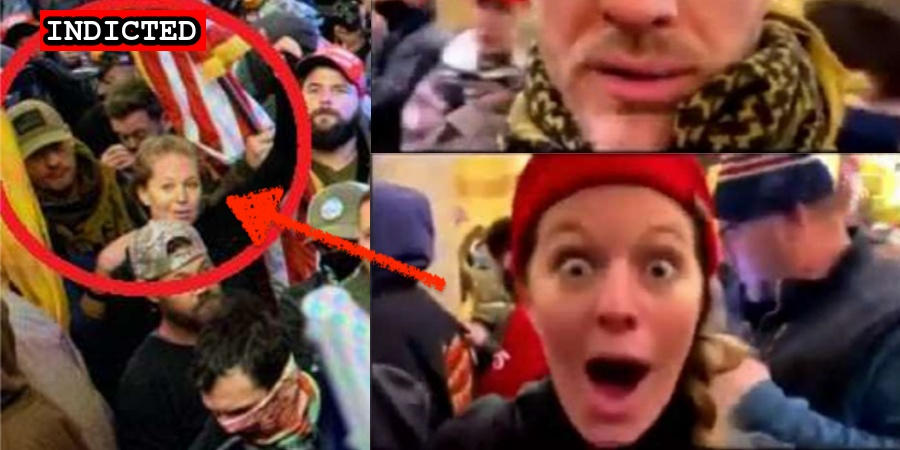
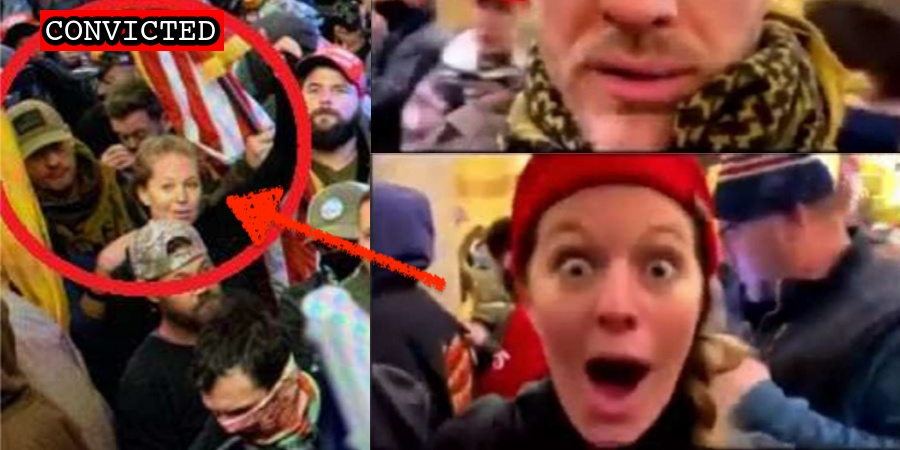
Latest import

Changed region(s): [[0.0311, 0.0, 0.2489, 0.1244]]

diff --git a/commands/suspect-import.ts b/commands/suspect-import.ts
@@ -288,6 +288,7 @@ const falsePositives = (site: string) => {
       set.add("Stackhouse");
       set.add("Ehrke");
       set.add("Moors");
+      set.add("Morgan-Lloyd");
       break;
   }
 

diff --git a/docs/_suspects/elizabeth-williams.md b/docs/_suspects/elizabeth-williams.md
@@ -4,15 +4,15 @@ lastName: Williams
 hashtag: ElizabethWilliams
 aka:
 residence: Texas
-status: Indicted
+status: Convicted
 date: 2021-03-23
 charged: 2021-03-23
 indicted: 2021-04-21
-convicted: 
-sentenced: 
-dismissed: 
+convicted: 2022-02-03
+sentenced:
+dismissed:
 deceased:
-plea_hearing:
+plea_hearing: 2022-02-03
 sentencing:
 age: 31
 occupation: Lifestyle Coach
@@ -34,9 +34,15 @@ published: true
 caseNumber: 1:21-cr-312
 videos:
 charges:
+  - code: 18 USC § 5104(e)(2)(G)
+    title: Parading, demonstrating or picketing in a Capitol building
+    url: https://www.law.cornell.edu/uscode/text/40/5104
+    felony: false
 sentence:
 ---
+
 - [News Report](https://www.houstonpublicmedia.org/articles/news/criminal-justice/2021/03/30/394724/texas-lifestyle-coach-and-her-boyfriend-arrested-for-joining-capitol-insurrection-fbi-says/)
 - [Complaint](https://www.justice.gov/usao-dc/case-multi-defendant/file/1386551/download)
-- [Statement of Facts](https://www.justice.gov/usao-dc/case-multi-defendant/file/1386556/download)
+- [Statement of Facts](https://www.justice.gov/usao-dc/case-multi-defendant/file/1468851/download)
 - [Indictment](https://www.justice.gov/usao-dc/case-multi-defendant/file/1389451/download)
+- [Plea Agreement](https://www.justice.gov/usao-dc/case-multi-defendant/file/1468846/download)

diff --git a/docs/_suspects/daniel-herendeen.md b/docs/_suspects/daniel-herendeen.md
@@ -34,15 +34,14 @@ published: true
 caseNumber: 1:21-cr-278
 videos:
 charges:
-  - code: 18 USC § 1752(a)(1)
-    title: Entering a restricted building or grounds
-    url: https://www.law.cornell.edu/uscode/text/18/1752
-    felony: false
+- code: 18 USC § 1752(a)(1)
+  title: Entering a restricted building or grounds
+  url: https://www.law.cornell.edu/uscode/text/18/1752
+  felony: false
 sentence:
 ---
-
 - [News Report](https://www.detroitnews.com/story/news/local/detroit-city/2021/03/18/us-capitol-riot-leads-charges-against-two-more-michigan-men/4746118001/)
 - [Complaint](https://www.justice.gov/usao-dc/case-multi-defendant/file/1378831/download)
-- [Statement of Facts](https://www.justice.gov/usao-dc/case-multi-defendant/file/1378836/download)
+- [Statement of Facts](https://www.justice.gov/usao-dc/case-multi-defendant/file/1468931/download)
 - [Indictment](https://www.justice.gov/usao-dc/case-multi-defendant/file/1384351/download)
-- [Plea Agreement](https://storage.courtlistener.com/recap/gov.uscourts.dcd.229689/gov.uscourts.dcd.229689.54.0.pdf)
+- [Plea Agreement](https://www.justice.gov/usao-dc/case-multi-defendant/file/1468926/download)

diff --git a/docs/_suspects/kevin-strong.md b/docs/_suspects/kevin-strong.md
@@ -34,15 +34,14 @@ published: true
 caseNumber: 1:21-cr-114
 videos:
 charges:
-  - code: 18 USC § 5104(e)(2)(G)
-    title: Parading, demonstrating or picketing in a Capitol building
-    url: https://www.law.cornell.edu/uscode/text/40/5104
-    felony: false
+- code: 18 USC § 5104(e)(2)(G)
+  title: Parading, demonstrating or picketing in a Capitol building
+  url: https://www.law.cornell.edu/uscode/text/40/5104
+  felony: false
 sentence:
 ---
-
 - [News Report](https://www.huffpost.com/entry/qanon-faa-employee-capitol-insurrection_n_600b2881c5b6d64153abaf3d)
 - [Complaint](https://www.justice.gov/opa/page/file/1359586/download)
-- [Statement of Facts](https://www.justice.gov/opa/page/file/1359586/download)
+- [Statement of Facts](https://www.justice.gov/usao-dc/case-multi-defendant/file/1468916/download)
 - [Information](https://www.justice.gov/usao-dc/case-multi-defendant/file/1371671/download)
-- [Plea Agreement](https://storage.courtlistener.com/recap/gov.uscourts.dcd.227448/gov.uscourts.dcd.227448.38.0.pdf)
+- [Plea Agreement](https://www.justice.gov/usao-dc/case-multi-defendant/file/1468911/download)

diff --git a/docs/_suspects/eric-barber.md b/docs/_suspects/eric-barber.md
@@ -34,14 +34,13 @@ published: true
 caseNumber: 1:21-cr-228
 videos:
 charges:
-  - code: 18 USC § 5104(e)(2)(G)
-    title: Parading, demonstrating or picketing in a Capitol building
-    url: https://www.law.cornell.edu/uscode/text/40/5104
-    felony: false
+- code: 18 USC § 5104(e)(2)(G)
+  title: Parading, demonstrating or picketing in a Capitol building
+  url: https://www.law.cornell.edu/uscode/text/40/5104
+  felony: false
 sentence:
 ---
-
 - [News Report](https://www.msn.com/en-us/news/us/west-virginia-man-charged-with-stealing-cspan-equipment-during-capitol-riots/ar-BB1efFsk)
-- [Statement of Facts](https://www.justice.gov/usao-dc/case-multi-defendant/file/1378386/download)
+- [Statement of Facts](https://www.justice.gov/usao-dc/case-multi-defendant/file/1468906/download)
 - [Information](https://www.justice.gov/usao-dc/case-multi-defendant/file/1378381/download)
-- [Plea Agreement](https://storage.courtlistener.com/recap/gov.uscourts.dcd.229013/gov.uscourts.dcd.229013.28.0.pdf)
+- [Plea Agreement](https://www.justice.gov/usao-dc/case-multi-defendant/file/1468901/download)

diff --git a/docs/_suspects/matthew-perna.md b/docs/_suspects/matthew-perna.md
@@ -53,7 +53,7 @@ charges:
 sentence:
 ---
 - [News Report](https://www.post-gazette.com/news/crime-courts/2021/01/19/Western-Pennsylvania-charged-US-Capitol-riot-insurrection-matthew-perna-jorden-mink/stories/202101190125)
-- [Statement of Facts](https://www.justice.gov/usao-dc/case-multi-defendant/file/1459946/download)
+- [Statement of Facts](https://www.justice.gov/usao-dc/case-multi-defendant/file/1468921/download)
 - [Complaint](https://www.justice.gov/opa/page/file/1356826/download)
 - [Self Incrimination (Interview)](https://www.ncnewsonline.com/news/local_news/fbi-agents-meet-with-sharpsville-resident/article_fa8fe7f9-62fc-5363-8d22-9e13ea81b1e1.html)
 - [Indictment](https://www.justice.gov/usao-dc/case-multi-defendant/file/1377916/download)

diff --git a/docs/_suspects/robert-chapman.md b/docs/_suspects/robert-chapman.md
@@ -42,6 +42,6 @@ sentence:
 ---
 - [News Report](https://www.cnn.com/2021/04/23/politics/bumble-capitol-riot-robert-chapman/index.html)
 - [Complaint](https://www.justice.gov/usao-dc/case-multi-defendant/file/1389161/download)
-- [Statement of Facts](https://www.justice.gov/usao-dc/case-multi-defendant/file/1389166/download)
+- [Statement of Facts](https://www.justice.gov/usao-dc/case-multi-defendant/file/1468896/download)
 - [Information](https://extremism.gwu.edu/sites/g/files/zaxdzs2191/f/Robert%20Chapman%20Information.pdf)
-- [Plea Agreement](https://extremism.gwu.edu/sites/g/files/zaxdzs2191/f/Robert%20Chapman%20Plea%20Agreement.pdf)
+- [Plea Agreement](https://www.justice.gov/usao-dc/case-multi-defendant/file/1468891/download)

diff --git a/docs/_suspects/anna-morgan-lloyd.md b/docs/_suspects/anna-morgan-lloyd.md
@@ -51,4 +51,4 @@ sentence:
 - [Sentencing Memo](https://extremism.gwu.edu/sites/g/files/zaxdzs2191/f/Anna%20Morgan-Lloyd%20Government%20Memorandum%20in%20Aid%20of%20Sentencing.pdf)
 - [Defense Memorandum in Support of Probationary Sentence](https://extremism.gwu.edu/sites/g/files/zaxdzs2191/f/Anna%20Morgan-Lloyd%20Defense%20Memorandum%20in%20Support%20of%20Probationary%20Sentence.pdf)
 - [Plea Agreement](https://www.justice.gov/usao-dc/case-multi-defendant/file/1410841/download)
-- [Judgement](https://extremism.gwu.edu/sites/g/files/zaxdzs2191/f/Anna%20Morgan-Lloyd%20Judgment.pdf)
+- [Judgement](https://www.justice.gov/usao-dc/case-multi-defendant/file/1415686/download)
